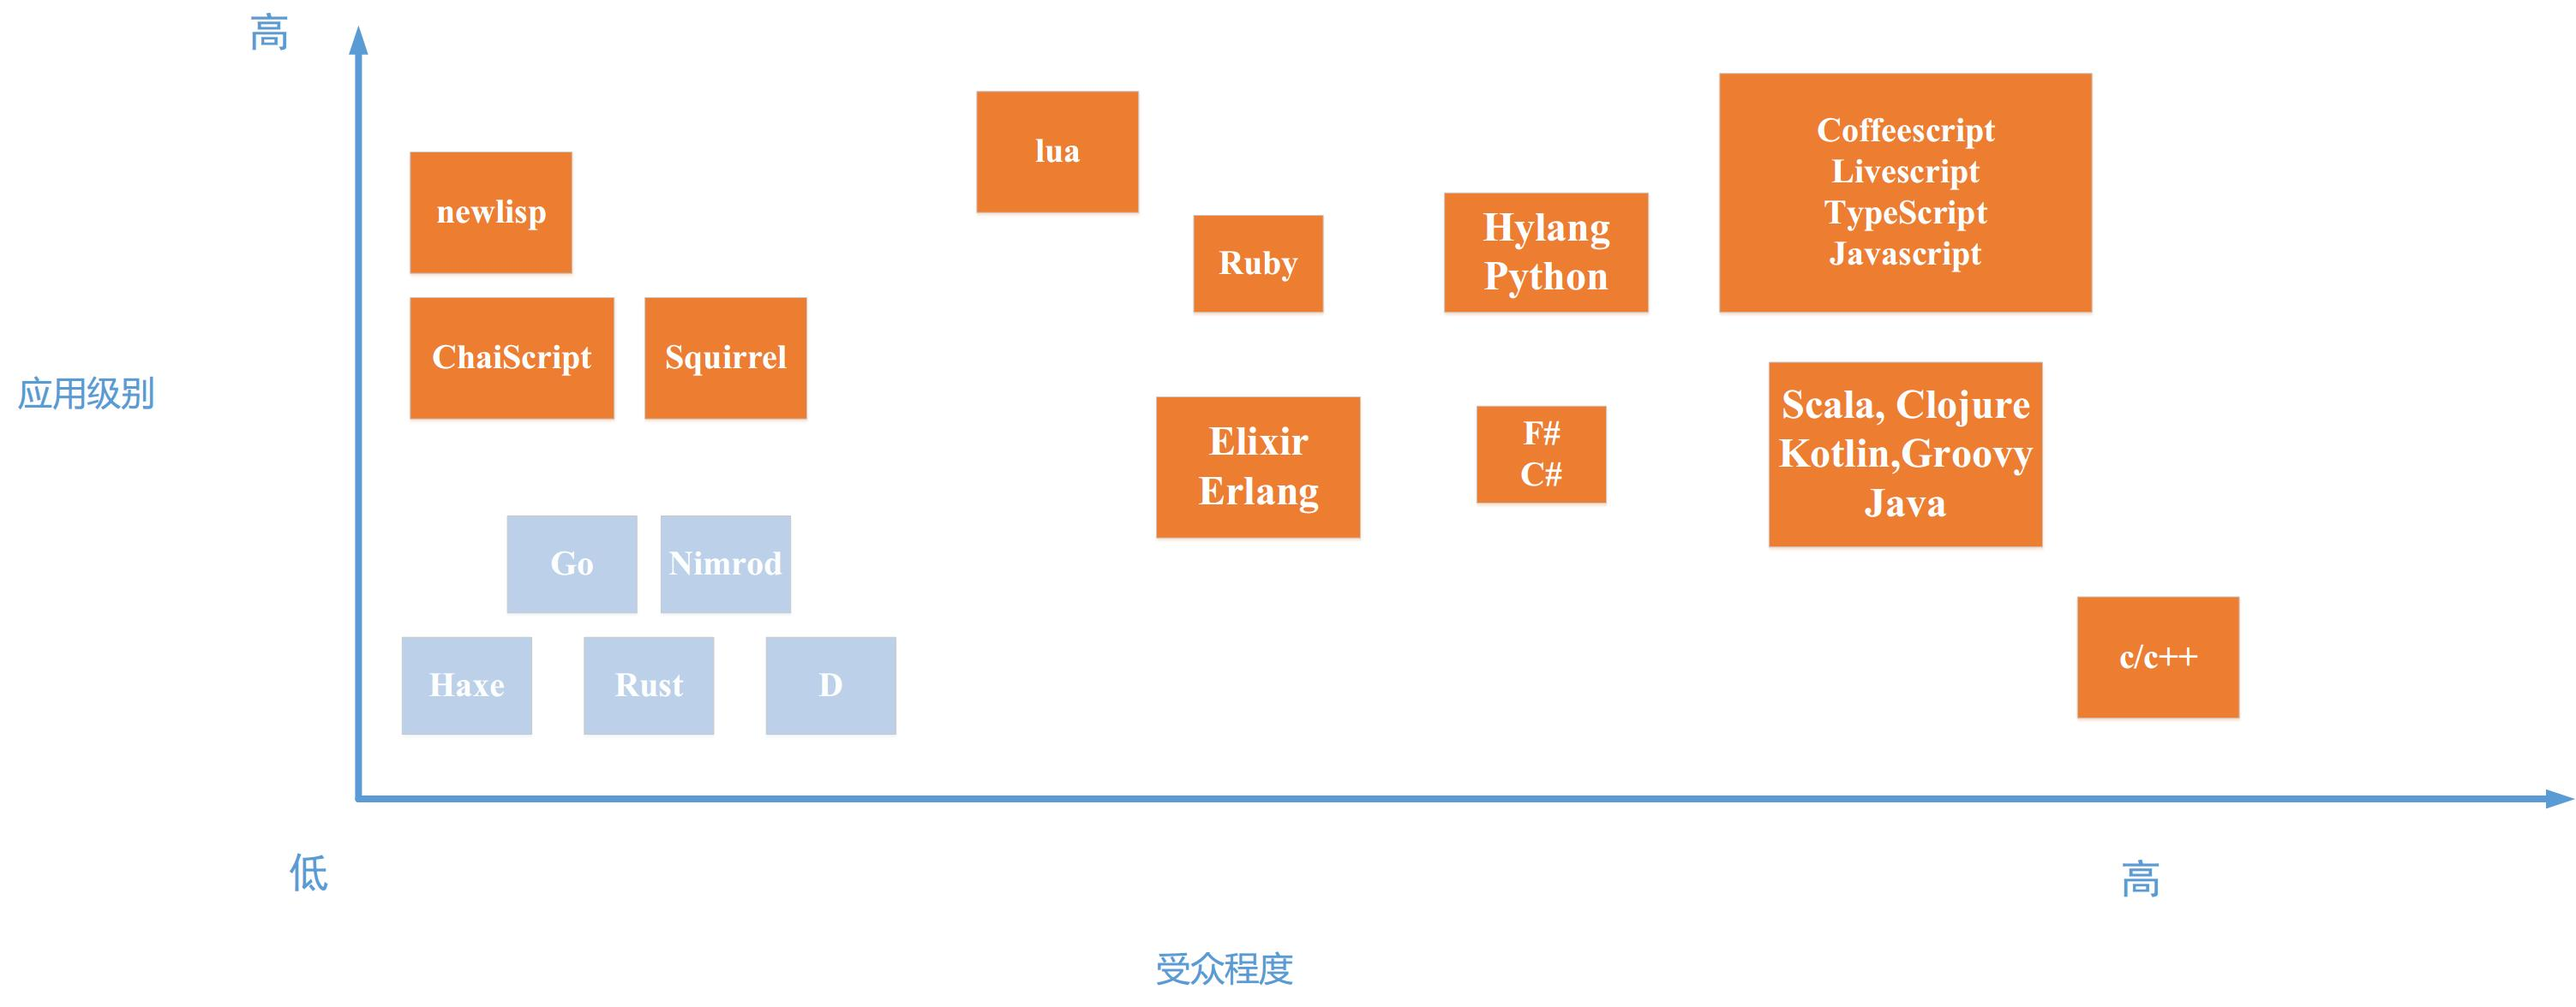
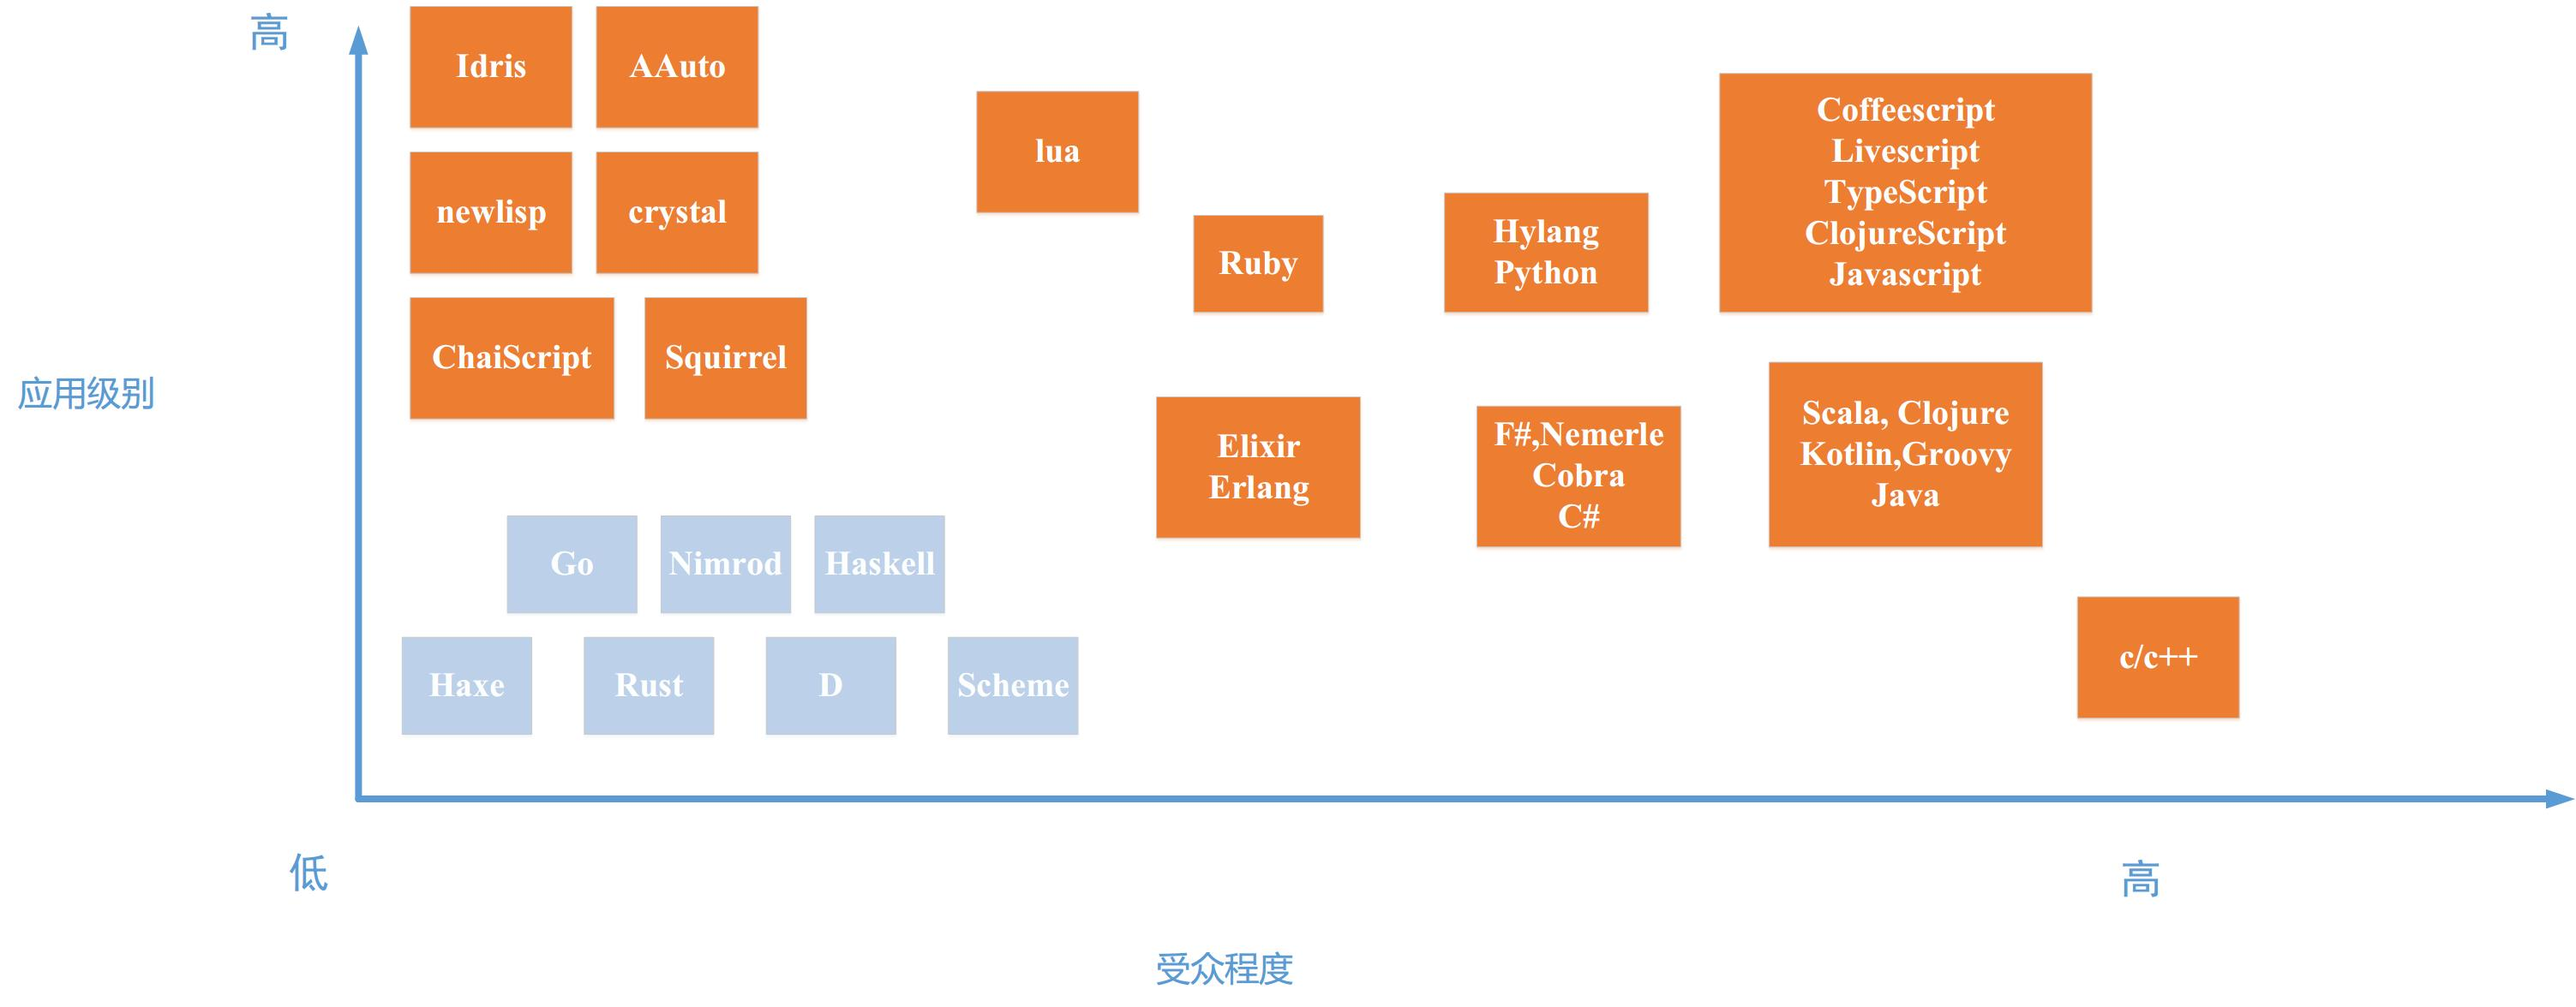
update

diff --git a/README.md b/README.md
@@ -83,6 +83,15 @@
 
 当前最新的计算机语言，几乎都把并发当成语言内置的支持，这对并行计算影响很大。
 
+#### 注意
+* Cobra 语言设计很有意思将测试和契约设计思想融入语言的设计中，值得学习。
+
+### 程序语言设计库
+如何设计一门自已的程序语言，有以下库可以帮助你：
+
+* [antlr](http://www.antlr.org/)
+* [Nitra](https://github.com/JetBrains/Nitra)
+
 ### 软件开发过程管理
 
 [快速构建一致的开发环境](http://yunlzheng.github.io/2014/10/08/build-local-develop-env/)
